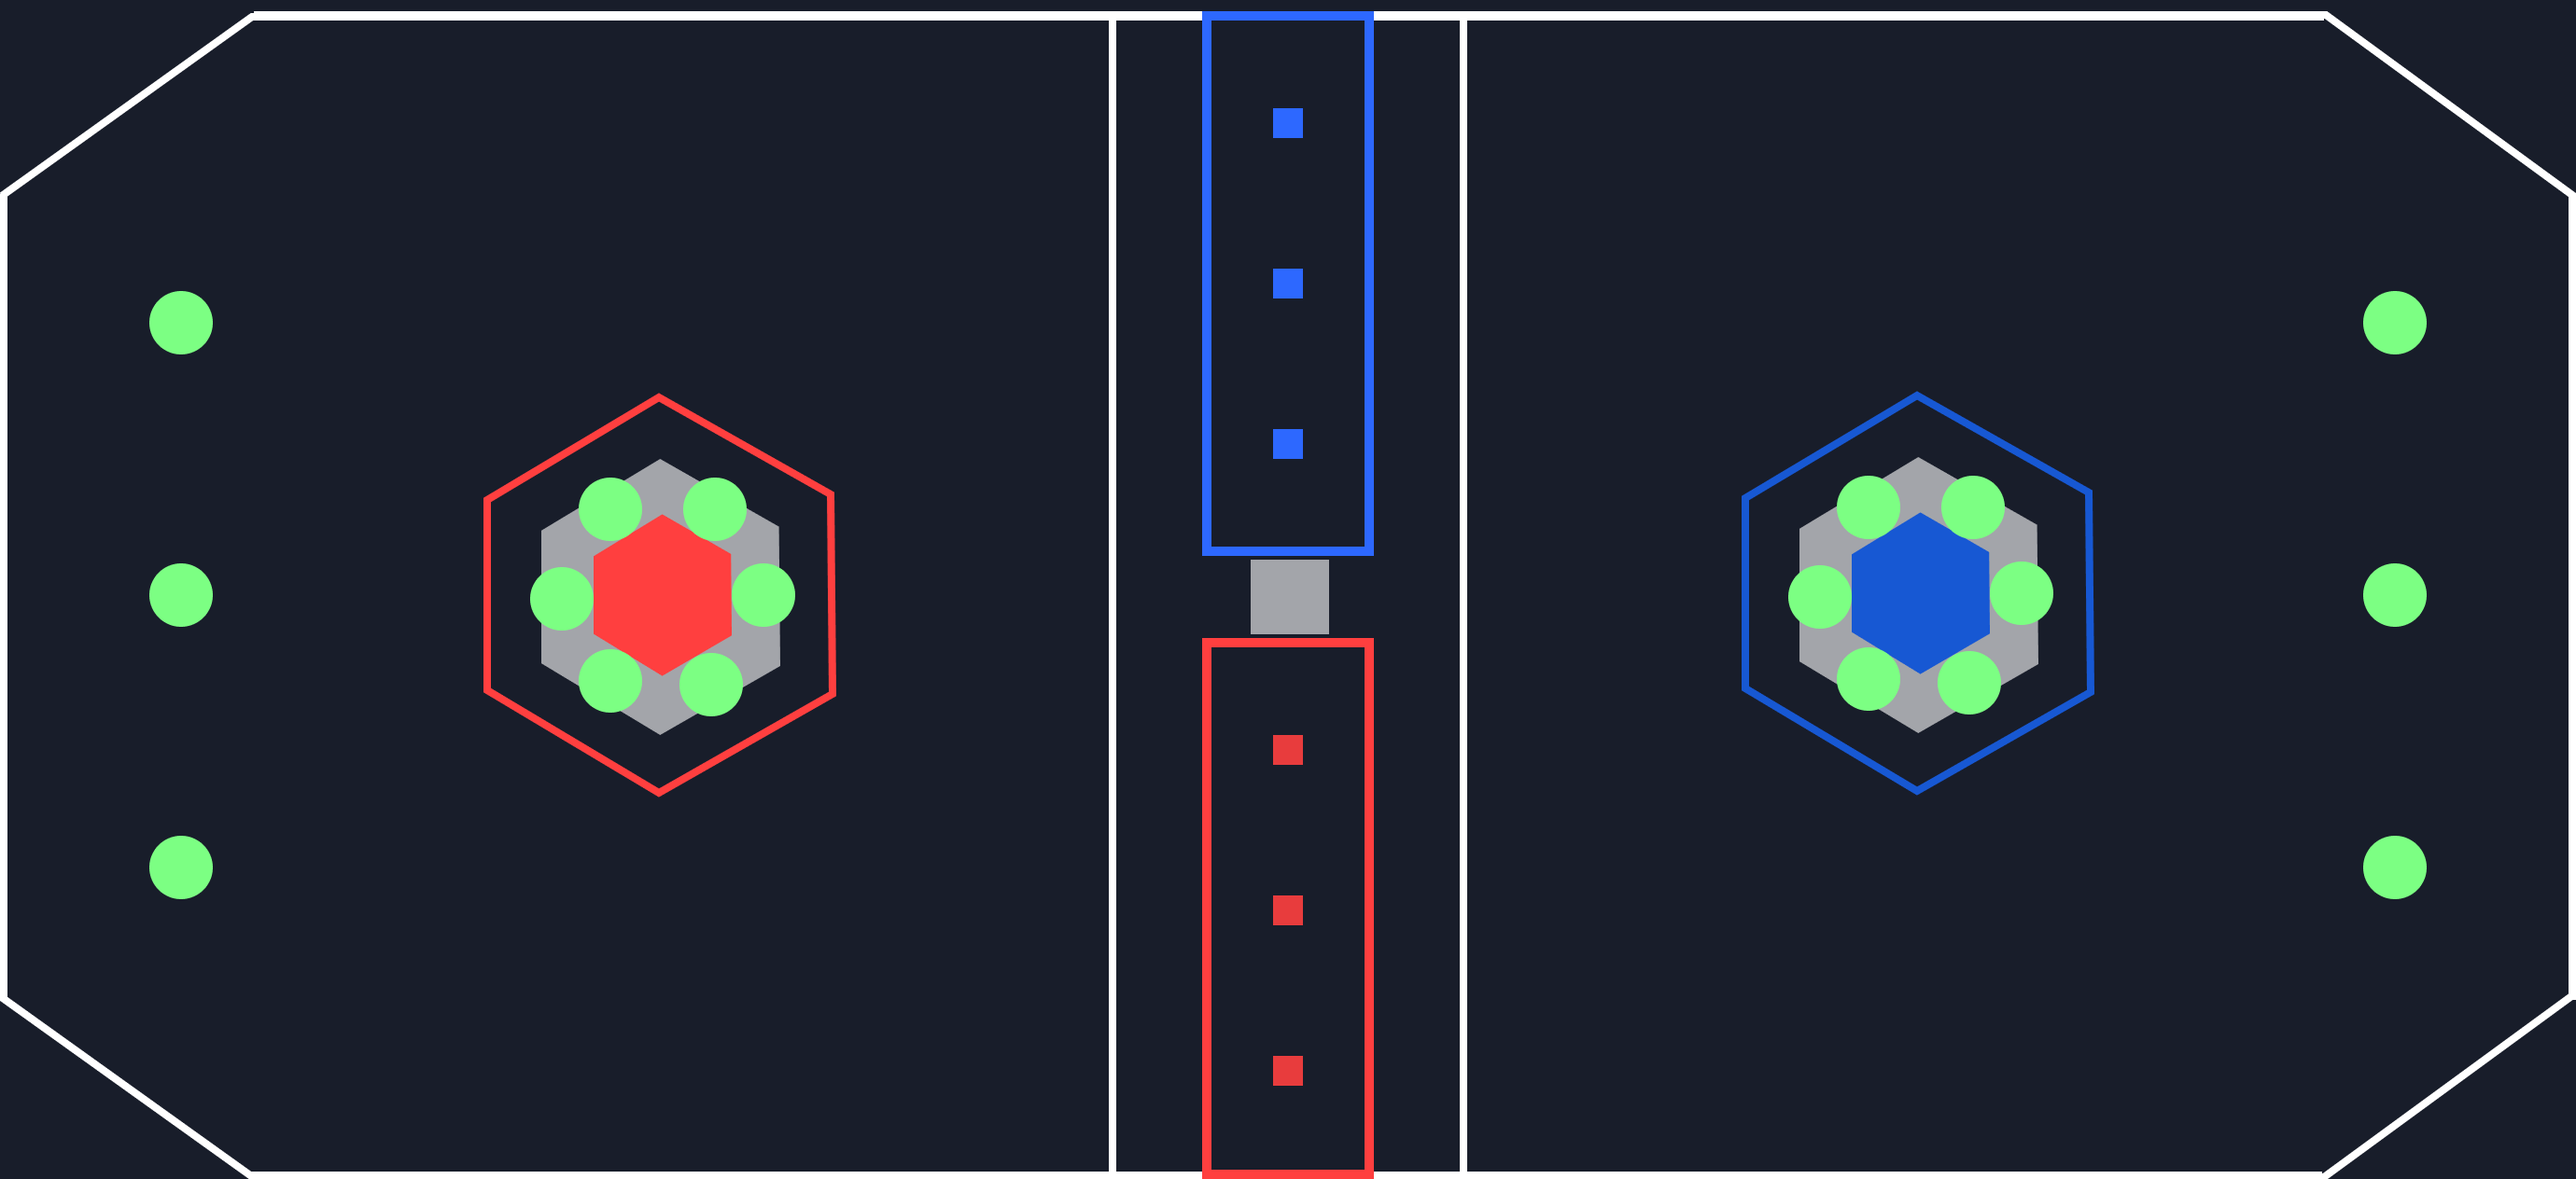
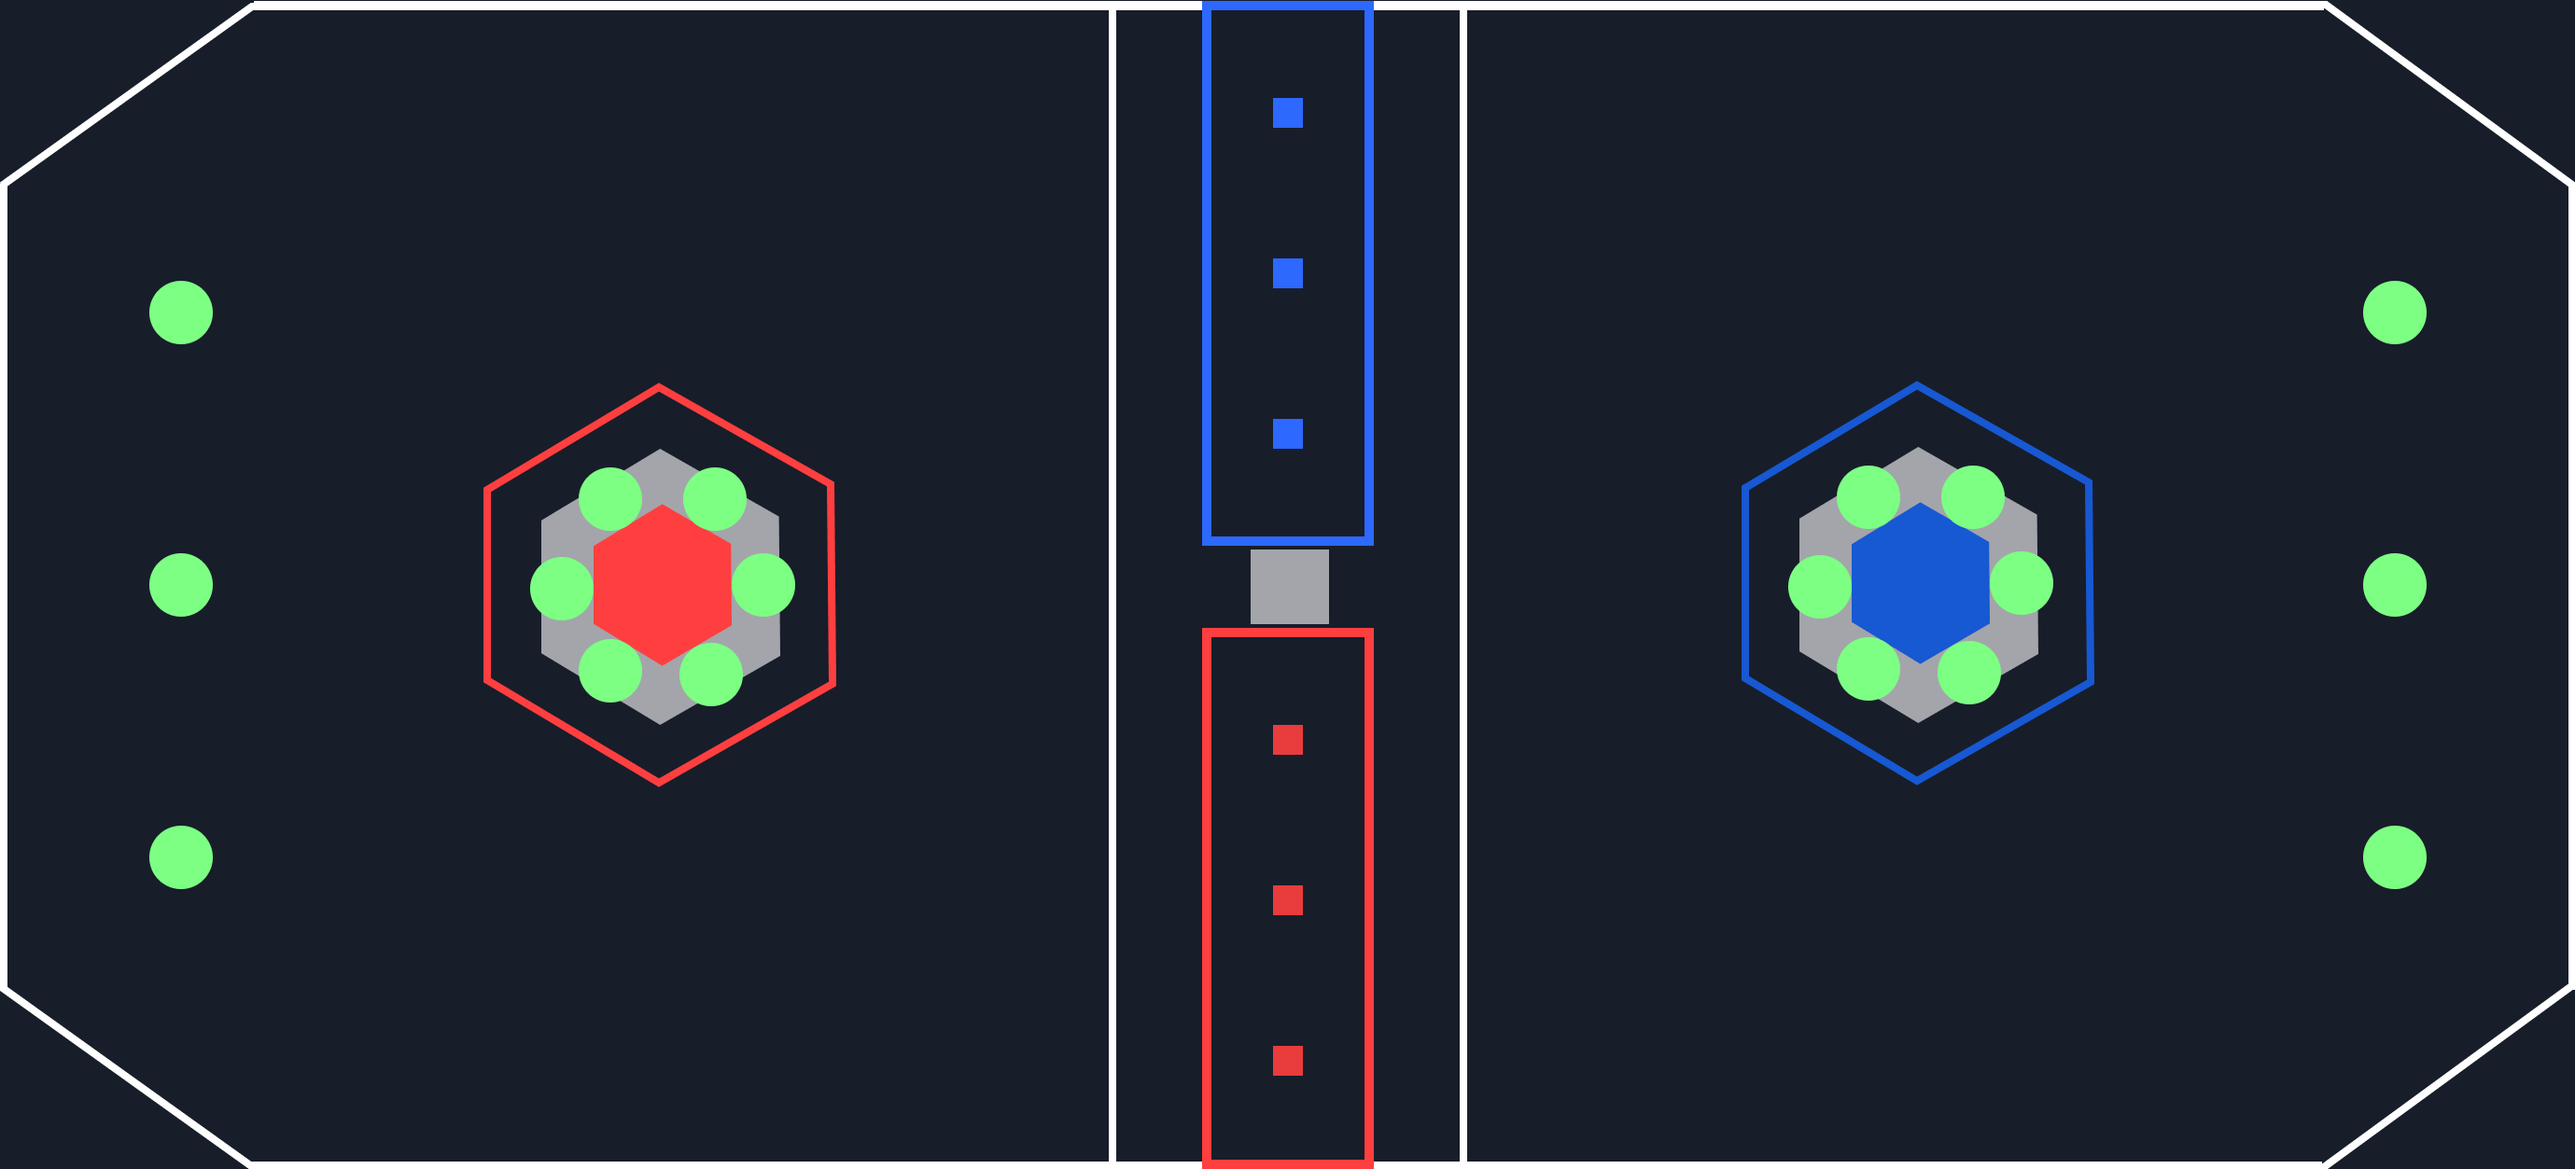
Scaling Issues Fixed

diff --git a/main/src/util.ts b/main/src/util.ts
@@ -1,16 +1,16 @@
 // Dimensions of the field: 317 in. width and 690.875 in. length. 
 export function fieldToPercX(x: number): number {
-    return (x / 690.875) * 100;
+    return ((x+2.014) / 694.9034) * 100;
 }
 
 export function percToFieldX(x: number): number {
-    return (x * 690.875) / 100;
+    return (x * 694.9034) / 100 - 2.014;
 }
 
 export function fieldToPercY(y: number): number {
-    return (y / 317) * 100;
+    return ((y+2.5) / 323) * 100;
 }
 
 export function percToFieldY(y: number): number {
-    return (y * 317) / 100;
+    return (y * 323) / 100 - 2.5;
 }

diff --git a/main/src/PathPlanner/PointEditor/PointEditor.tsx b/main/src/PathPlanner/PointEditor/PointEditor.tsx
@@ -15,8 +15,8 @@ function PointEditor({pointOfInterest, path, setPath, x, setX, y, setY, v, setV,
   const savePoint =() =>{
     if (pointOfInterest!=undefined){
       let tempPath=[...path]
-      tempPath[pointOfInterest].CordX=fieldToPercX(x);
-      tempPath[pointOfInterest].CordY=fieldToPercY(y);
+      tempPath[pointOfInterest].CordX=fieldToPercX(10*x/10);
+      tempPath[pointOfInterest].CordY=fieldToPercY(10*y/10);
       tempPath[pointOfInterest].velocity=v;
       tempPath[pointOfInterest].bearing=r;
       setPath(tempPath);

diff --git a/main/public/electron.js b/main/public/electron.js
@@ -13,6 +13,7 @@ function createWindow() {
         slashes: true,
     });
     win = new BrowserWindow({
+        icon: '../build/favicon.ico',
         width: 800,
         height: 800,
         webPreferences: {
